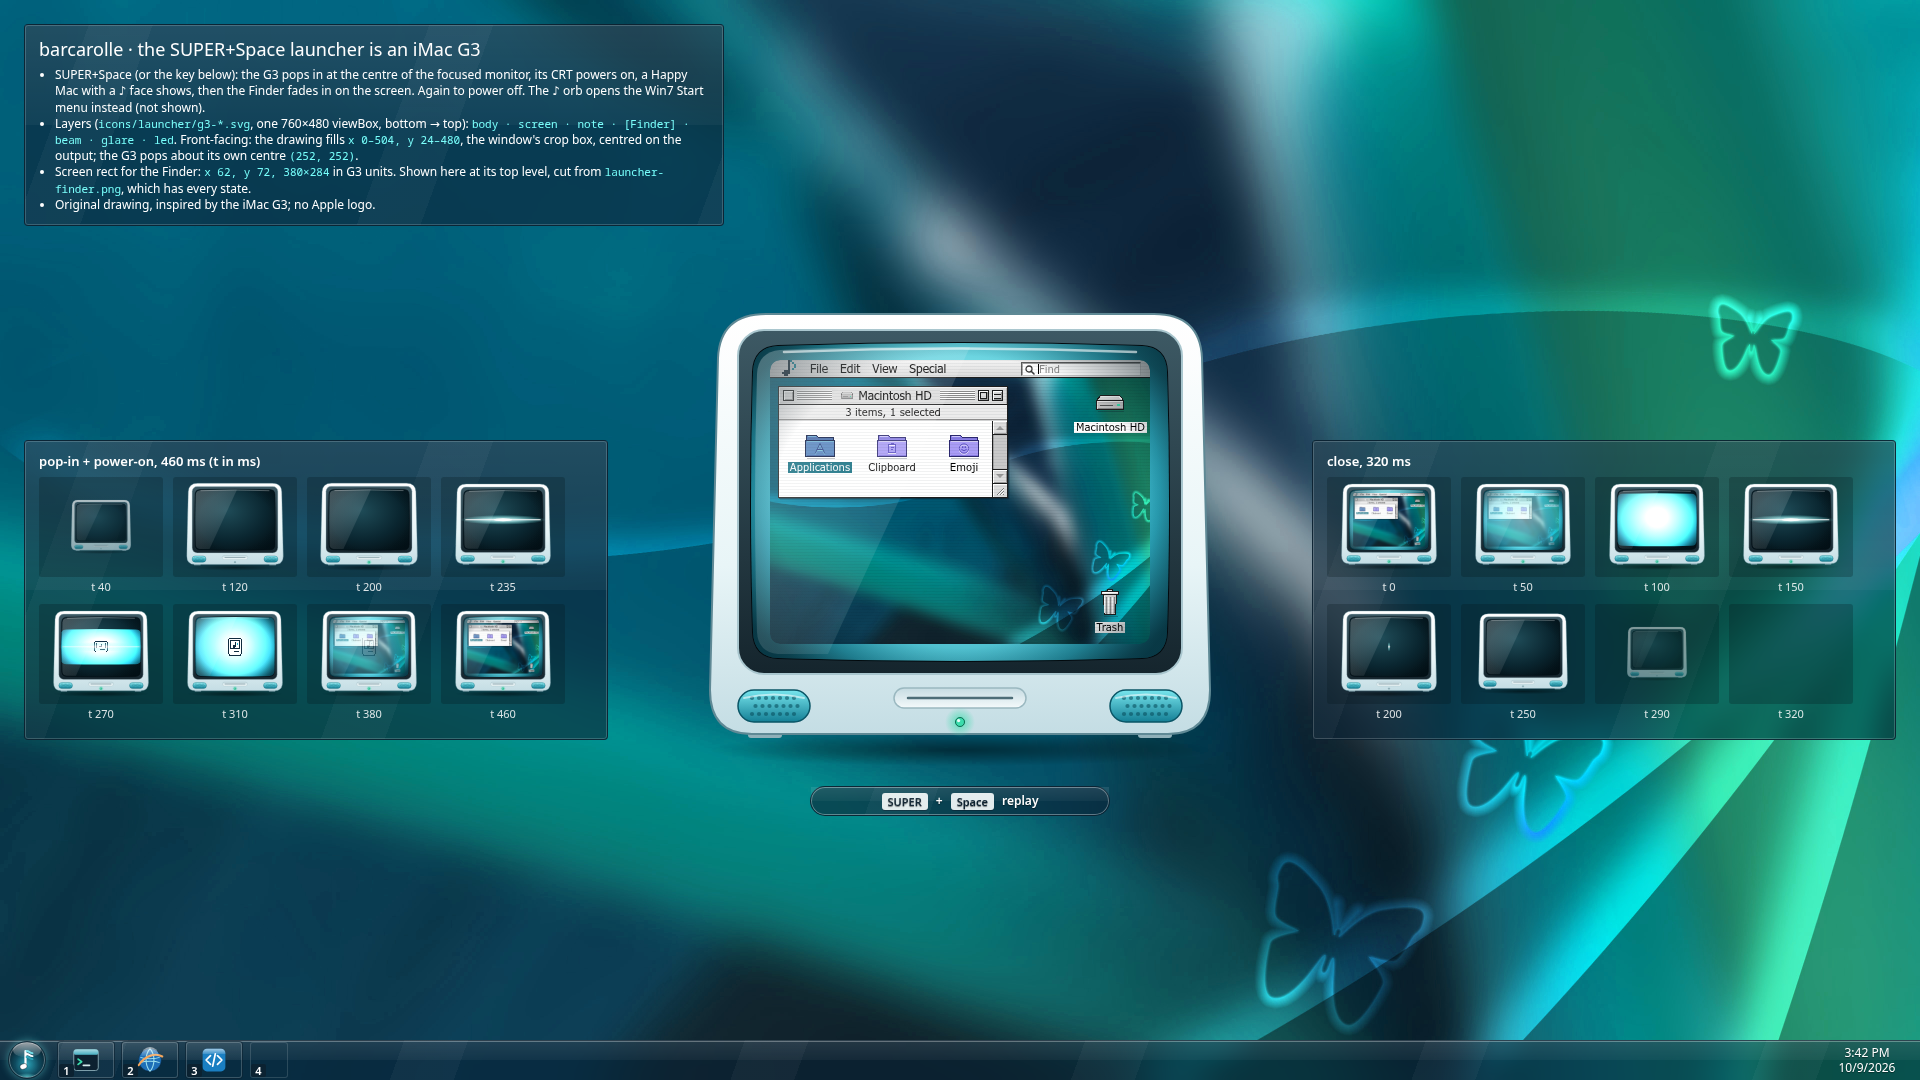
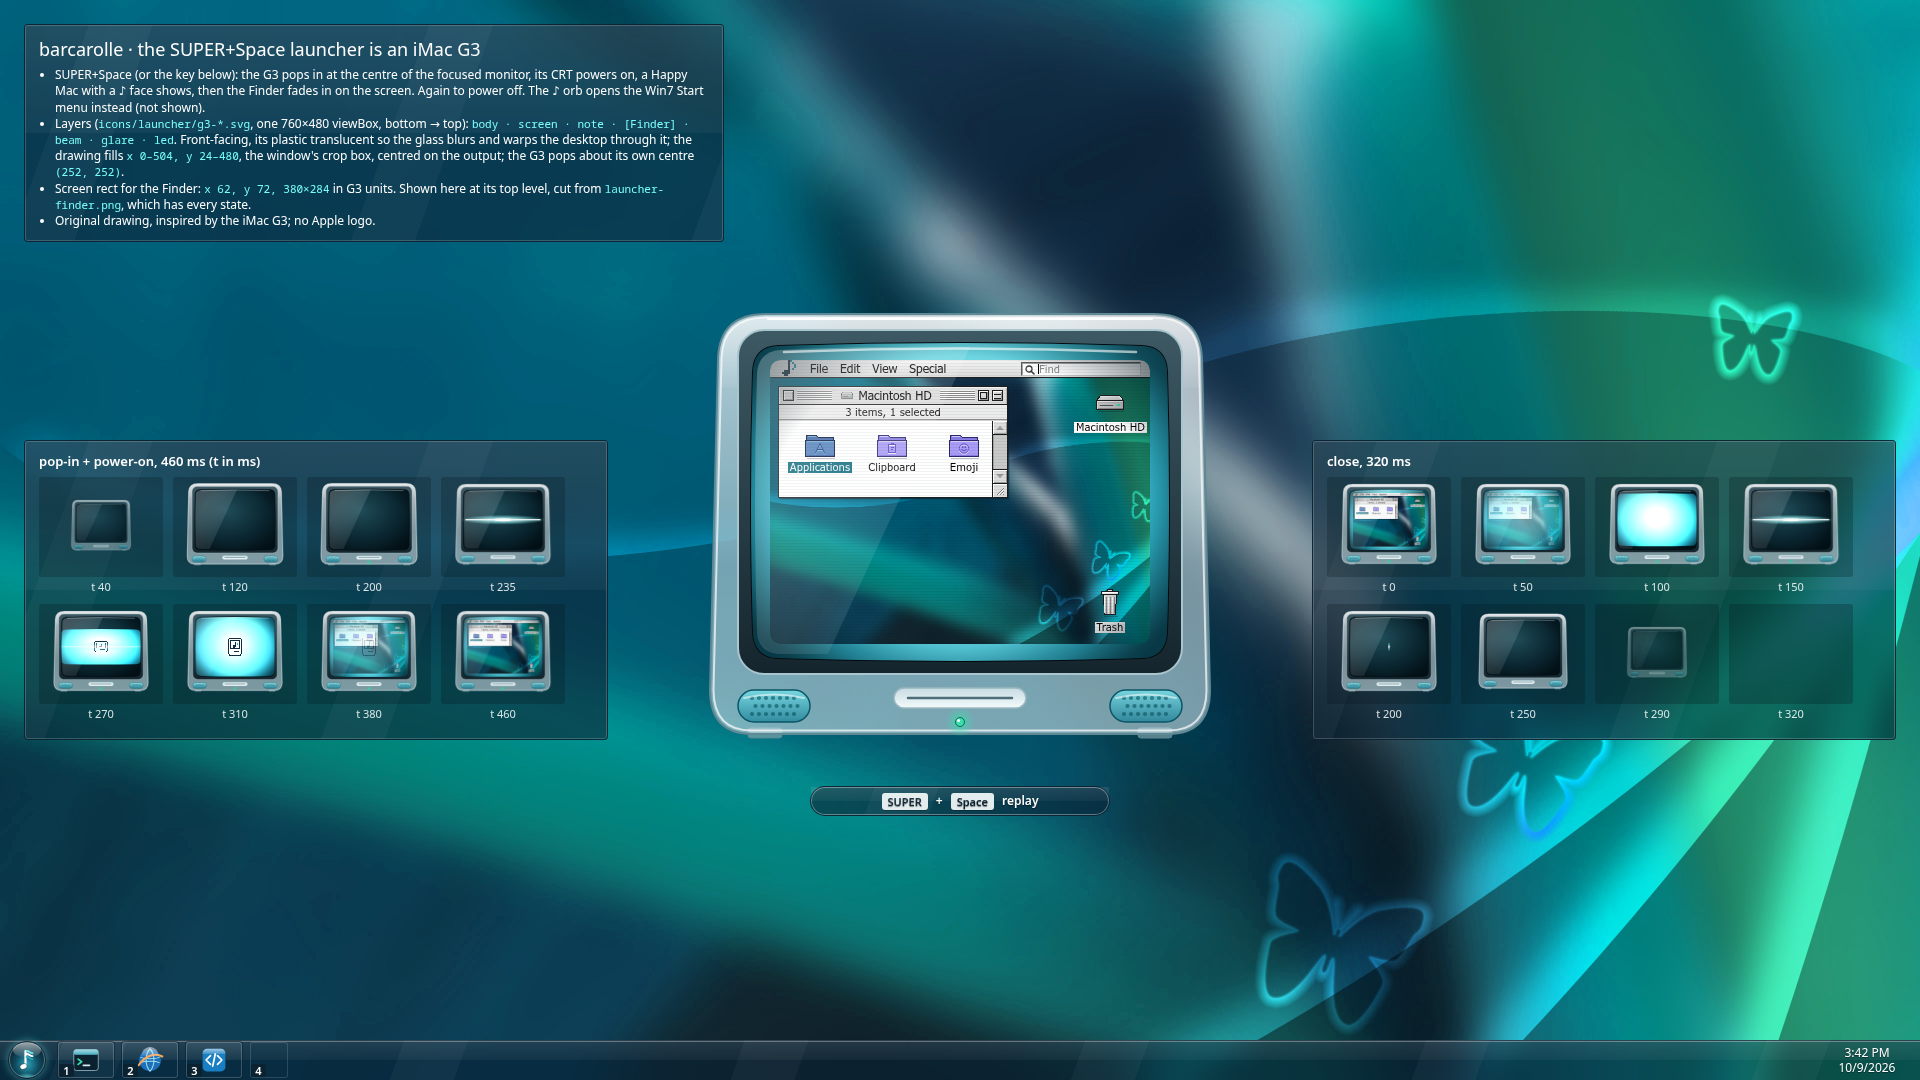
barcarolle launcher: the G3's plastic is translucent, so the glass shows through it

diff --git a/song/songbook/barcarolle/design/launcher-g3.html b/song/songbook/barcarolle/design/launcher-g3.html
@@ -28,7 +28,9 @@ body{font:12px/1.35 var(--ui);color:#fff}
 
 /* the G3: every layer shares the 760x480 viewBox */
 .g3{position:absolute;width:760px;height:480px}
-.g3>img,.g3>.content{position:absolute;left:0;top:0}
+.g3>img,.g3>.content,.g3>.frost{position:absolute;left:0;top:0}
+/* the plastic is translucent: hyprglass blurs and tints what is behind every pixel above 0.05 alpha; mocked with a backdrop blur masked to the body */
+.g3>.frost{width:760px;height:480px;background:rgba(8,30,43,.22);backdrop-filter:blur(14px) saturate(1.35);-webkit-mask:url(../icons/launcher/g3-body.svg) 0 0/760px 480px no-repeat;mask:url(../icons/launcher/g3-body.svg) 0 0/760px 480px no-repeat}
 .g3 .scr,.g3 .note,.g3 .beam{transform-origin:252px 214px}
 /* the screen rect 62,72 380x284: the Finder's top level, cut from launcher-finder.png (its tile 1 screen sits at 78,143).
    That render already carries the glare and scanlines, so here it sits above g3-glare; in the QML the content sits under it. */
@@ -71,7 +73,7 @@ body{font:12px/1.35 var(--ui);color:#fff}
     <h1>barcarolle · the SUPER+Space launcher is an iMac G3</h1>
     <ul>
       <li>SUPER+Space (or the key below): the G3 pops in at the centre of the focused monitor, its CRT powers on, a Happy Mac with a ♪ face shows, then the Finder fades in on the screen. Again to power off. The ♪ orb opens the Win7 Start menu instead (not shown).</li>
-      <li>Layers (<code>icons/launcher/g3-*.svg</code>, one 760×480 viewBox, bottom → top): <code>body · screen · note · [Finder] · beam · glare · led</code>. Front-facing: the drawing fills <code>x 0–504, y 24–480</code>, the window's crop box, centred on the output; the G3 pops about its own centre <code>(252, 252)</code>.</li>
+      <li>Layers (<code>icons/launcher/g3-*.svg</code>, one 760×480 viewBox, bottom → top): <code>body · screen · note · [Finder] · beam · glare · led</code>. Front-facing, its plastic translucent so the glass blurs and warps the desktop through it; the drawing fills <code>x 0–504, y 24–480</code>, the window's crop box, centred on the output; the G3 pops about its own centre <code>(252, 252)</code>.</li>
       <li>Screen rect for the Finder: <code>x 62, y 72, 380×284</code> in G3 units. Shown here at its top level, cut from <code>launcher-finder.png</code>, which has every state.</li>
       <li>Original drawing, inspired by the iMac G3; no Apple logo.</li>
     </ul>
@@ -134,7 +136,7 @@ function at(tracks, t, from) {
   return s;
 }
 function build(el) {
-  el.innerHTML = `<img src="${L}g3-body.svg"><img class="scr" src="${L}g3-screen.svg"><img class="note" src="${L}g3-note.svg">
+  el.innerHTML = `<div class="frost"></div><img src="${L}g3-body.svg"><img class="scr" src="${L}g3-screen.svg"><img class="note" src="${L}g3-note.svg">
     <img class="beam" src="${L}g3-beam.svg"><img src="${L}g3-glare.svg"><div class="content"></div><img class="led" src="${L}g3-led.svg">`;
 }
 // the G3 pops in about its own centre, (252,252) in G3 units

diff --git a/song/songbook/barcarolle/design/intent.md b/song/songbook/barcarolle/design/intent.md
@@ -117,13 +117,16 @@ fades, the CRT collapses to a dot and the G3 shrinks away. Boards:
 `launcher-g3.html` (rendered to `launcher-g3.png`; the machine and its
 timelines) and `launcher-finder.png` (the screen).
 
-- **Look**: front-facing, no back. A frosted ice-white front, symmetric
-  about the screen centre, with a flat, low crown so the screen takes most
-  of it; a dark CRT well round a screen with slightly bulged sides; two
-  teal speaker grilles at the bottom corners, a drive slot between them
-  with the power LED under it; two short feet. No floor shadow: the G3
-  floats mid-screen, and the launcher layer's glass would smear a
-  translucent shadow into a rainbow. No Apple logo.
+- **Look**: front-facing, no back. A front of translucent frosted plastic,
+  symmetric about the screen centre, with a flat, low crown so the screen
+  takes most of it. The ice gradient runs at 0.72 → 0.5 → 0.62 alpha, the
+  feet at 0.6 and the teal speaker grilles at about 0.75, so the launcher
+  layer's hyprglass blurs and warps the desktop through the plastic; an
+  opaque outer rim, a white inner rim and the top highlight hold the
+  silhouette. The dark CRT well and the screen stay solid for legibility,
+  as does the drive slot between the grilles, with the power LED under it.
+  No floor shadow: the G3 floats mid-screen, and the launcher layer's glass
+  would smear a translucent shadow into a rainbow. No Apple logo.
 - **Size and place**: a 760×480 viewBox at 1:1. The drawing fills only
   **x 0–504, y 24–480** of it (front shell x 2–502, y 26–446; feet to
   y 450), so the window is cropped to that 504×456 box and
